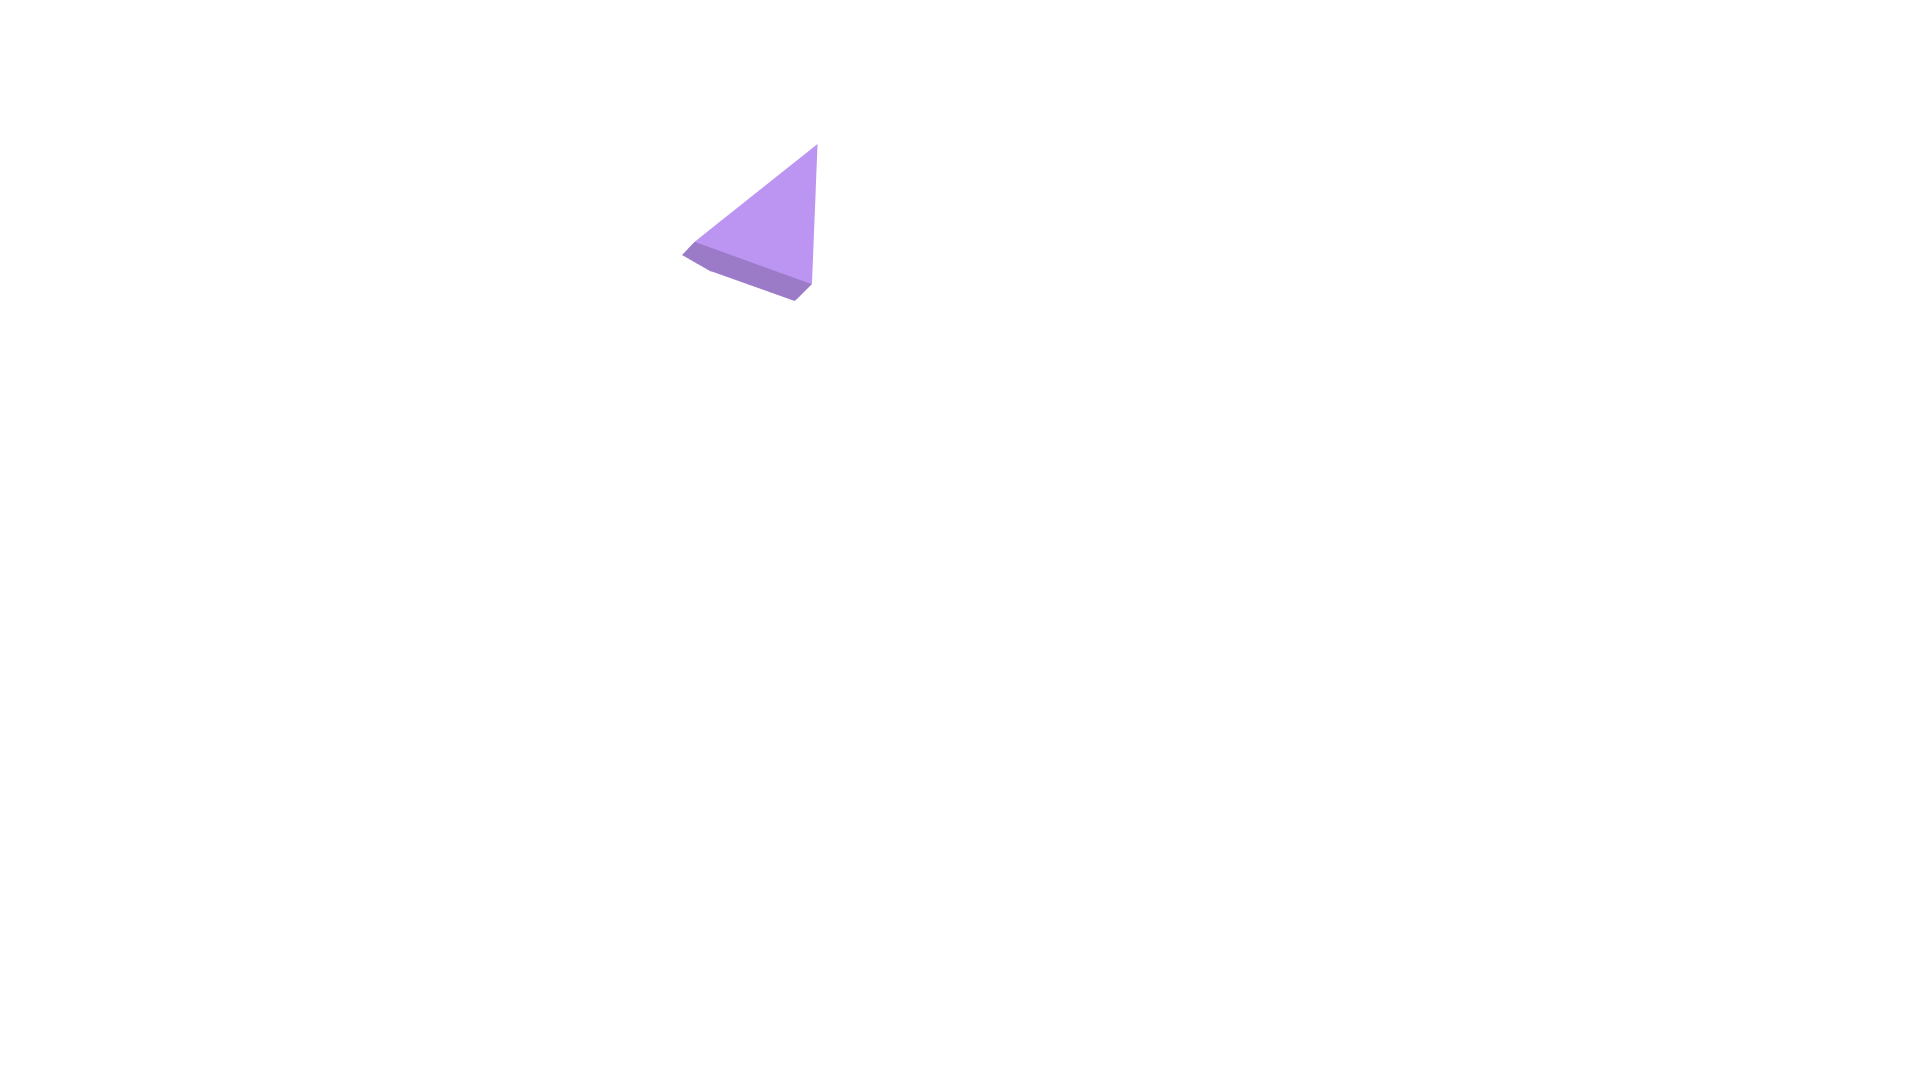
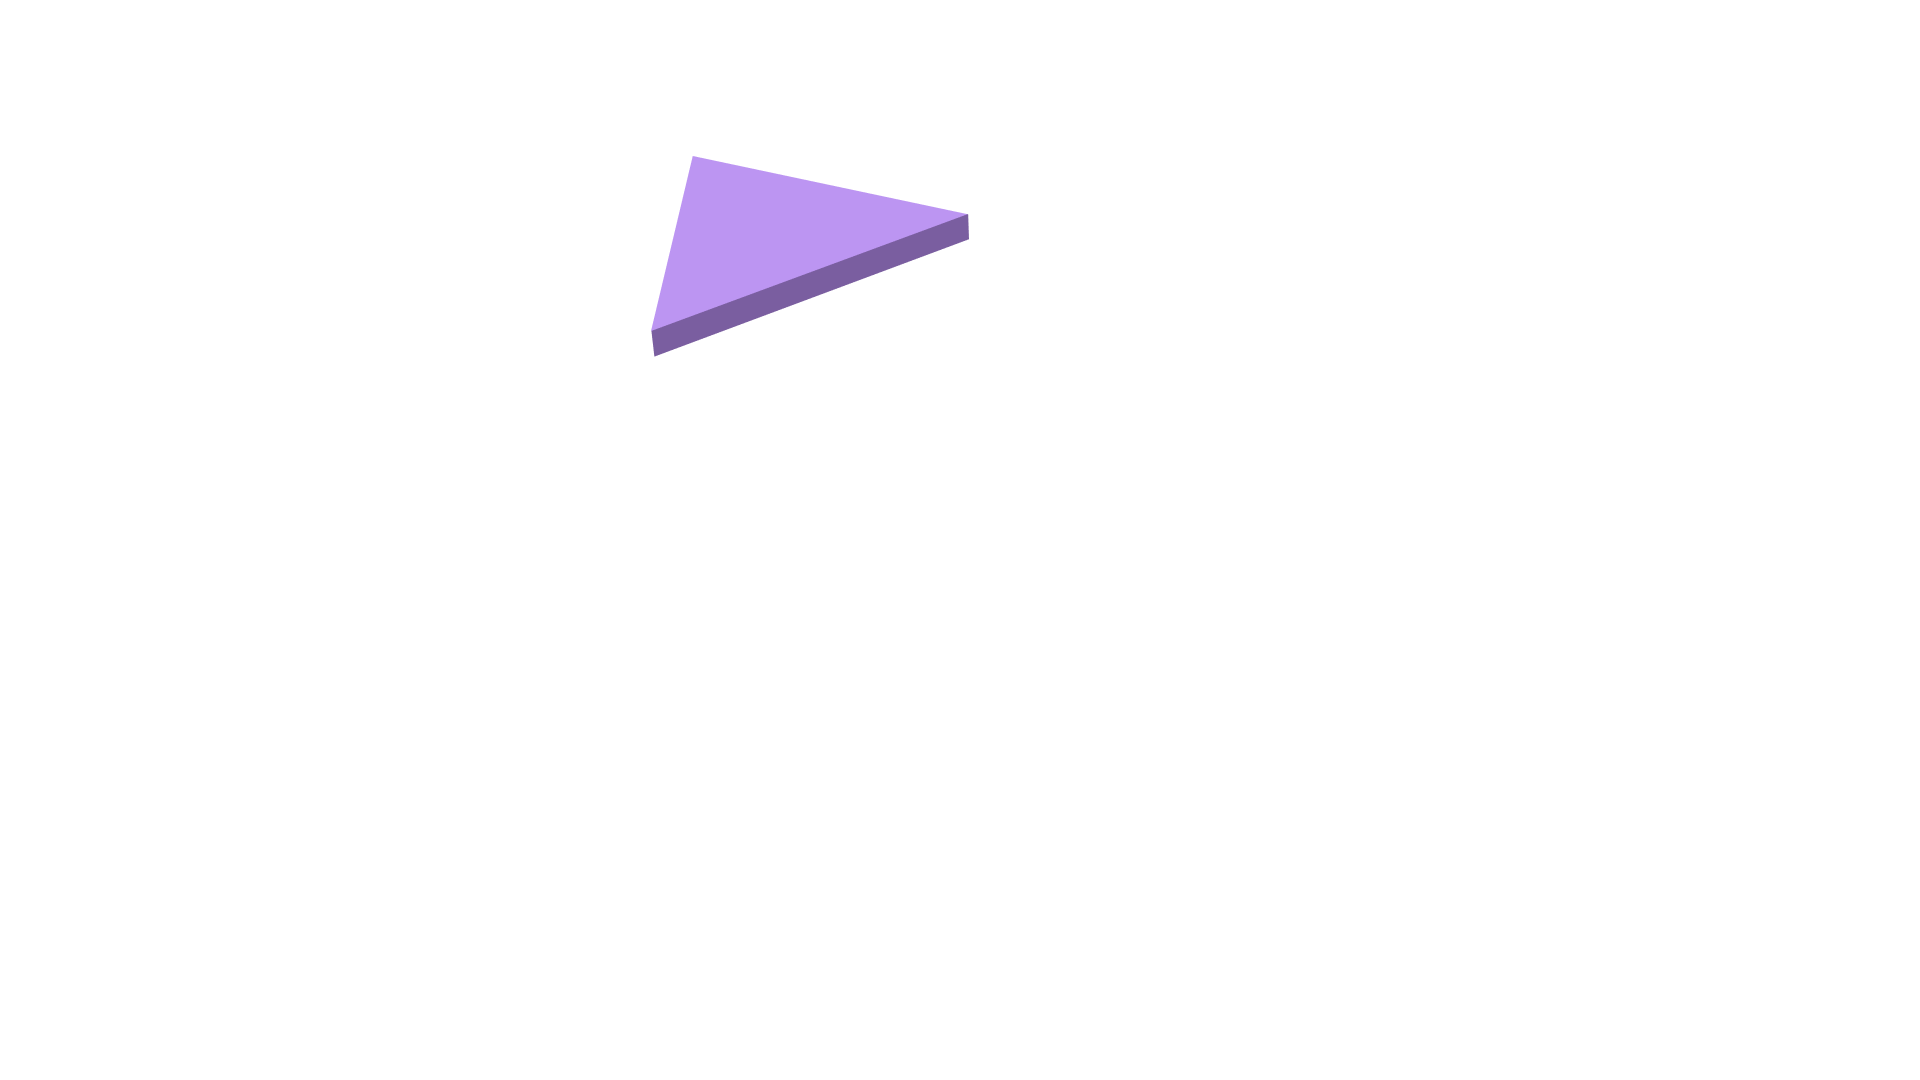
Added temporary navbar

Changed region(s): [[0.3438, 0.1222, 0.5, 0.3361]]

diff --git a/src/components/Landing.jsx b/src/components/Landing.jsx
@@ -9,7 +9,7 @@ import image5 from "../parallaxElems/5.png";
 import image6 from "../parallaxElems/6.png";
 import image7 from "../parallaxElems/7.png";
 import image8 from "../parallaxElems/8.png";
-// import image9 from "../parallaxElems/9.png";
+import image9 from "../parallaxElems/9.png";
 
 const Landing = () => {
   useEffect(() => {
@@ -31,10 +31,9 @@ const Landing = () => {
 
   return (
     <div className="container">
-      <h2 className="object" data-value="3">
+      {/* <h2 className="object" data-value="3">
         INDUCTION<br />
-        <span>INSERT LOGO HERE</span>
-      </h2>
+      </h2> */}
       <img src={image1} className="object" data-value="-2" alt="" />
       <img src={image2} className="object" data-value="6" alt="" />
       <img src={image3} className="object" data-value="4" alt="" />
@@ -43,7 +42,7 @@ const Landing = () => {
       <img src={image6} className="object" data-value="-4" alt="" />
       <img src={image7} className="object" data-value="5" alt="" />
       <img src={image8} className="object" data-value="-9" alt="" />
-      {/* <img src={image9} className="object" data-value="-5" alt="" /> */}
+      <img src={image9} className="object" data-value="-5" alt="" />
     </div>
   );
 };

diff --git a/src/components/Navb.jsx b/src/components/Navb.jsx
@@ -1,0 +1,22 @@
+import React from 'react';
+import iiit from "../parallaxElems/iiitdl.png";
+import ind from "../parallaxElems/Vector.png";
+import fb from "../parallaxElems/facebook.png";
+import menu from "../parallaxElems/menu.png";
+import "./Navb.css"
+
+const Navb = () => {
+  return (
+    <div className='navbar'>
+      <img  className="itl" src={iiit} alt="iiit" />
+      <img src={ind} alt="ind" />
+      <img src={fb} alt="fb" />
+      <img src={fb} alt="fb" />
+      <img src={fb} alt="fb" />
+      <img src={menu} className='right' alt="logo" />
+
+    </div>
+  );
+};
+
+export default Navb;

diff --git a/public/index.html b/public/index.html
@@ -24,7 +24,7 @@
       work correctly both with client-side routing and a non-root public URL.
       Learn how to configure a non-root public URL by running `npm run build`.
     -->
-    <title>React App</title>
+    <title>INDUCTION 23'</title>
   </head>
   <body>
     <noscript>You need to enable JavaScript to run this app.</noscript>

diff --git a/src/components/Navb.css b/src/components/Navb.css
@@ -1,0 +1,16 @@
+.navbar {
+  display: flex;
+  align-items: center;
+}
+
+.itl{
+  margin-left: 10px;
+}
+
+.navbar img {
+  margin-top: 10px;
+  margin-right: 15px; /* Adjust the value as needed for the desired spacing */
+}
+.right{
+  margin-left: 1500px;
+}

diff --git a/src/App.js b/src/App.js
@@ -1,8 +1,10 @@
 import './App.css';
 import Landing from './components/Landing';
+import Navb from './components/Navb';
 function App() {
   return (
     <div className="App">
+      <Navb />
       <Landing />
     </div>
   );

diff --git a/src/components/Landing.css b/src/components/Landing.css
@@ -28,6 +28,7 @@
     top: 0;
     left: 0;
     object-fit: contain;
+    z-index: -1;
   }
   
   .container h2{
